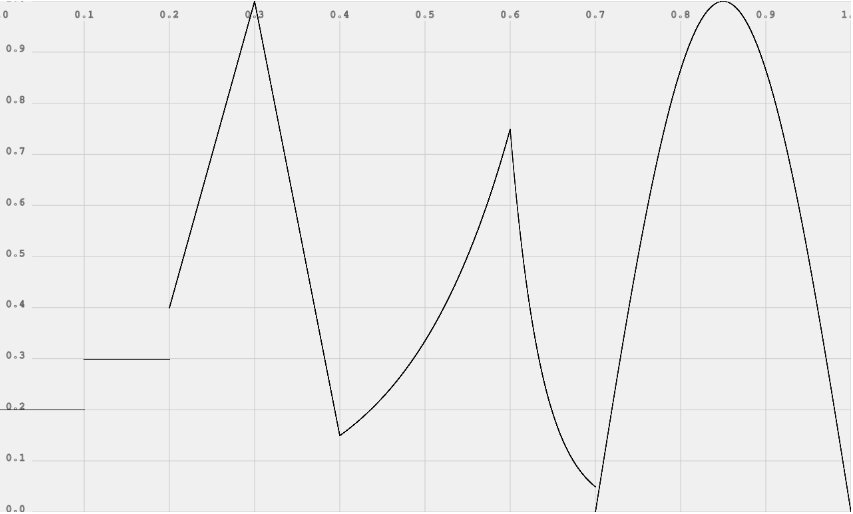
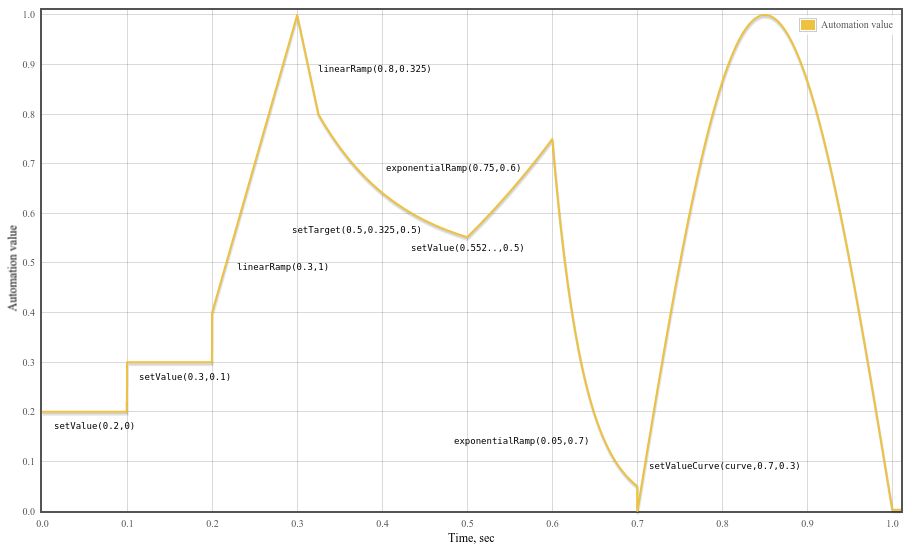
Fix #5: Add setTargetAtTime curve to example
The graph of parameter automation is updated to include an example of
setTargetAtTime with the code update appropriately.  The graph also
includes some simple annotation of each part and also gives an example
of how to have another automation follow a setTargetAtTime.  A
setValueAtTime is required to terminate the setTargetAtTime and give a
starting value for the following exponentialRampToValueAtTime.

diff --git a/index.html b/index.html
@@ -1839,28 +1839,37 @@ The <em>computedValue</em> is the sum of the <em>intrinsic</em> value and the va
   <figcaption>An example of parameter automation.</figcaption>
 </figure>
 <pre class="code example"><code class="es-code highlight">
-var t0 = 0;
-var t1 = 0.1;
-var t2 = 0.2;
-var t3 = 0.3;
-var t4 = 0.4;
-var t5 = 0.6;
-var t6 = 0.7;
-var t7 = 1.0;
-
 var curveLength = 44100;
 var curve = new Float32Array(curveLength);
 for (var i = 0; i &lt; curveLength; ++i)
     curve[i] = Math.sin(Math.PI * i / curveLength);
 
+var t0 = 0;
+var t1 = 0.1;
+var t2 = 0.2;
+var t3 = 0.3;
+var t4 = 0.325;
+var t5 = 0.5;
+var t6 = 0.6;
+var t7 = 0.7;
+var t8 = 1.0;
+var timeConstant = 0.1;
+
 param.setValueAtTime(0.2, t0);
 param.setValueAtTime(0.3, t1);
 param.setValueAtTime(0.4, t2);
 param.linearRampToValueAtTime(1, t3);
-param.linearRampToValueAtTime(0.15, t4);
-param.exponentialRampToValueAtTime(0.75, t5);
-param.exponentialRampToValueAtTime(0.05, t6);
-param.setValueCurveAtTime(curve, t6, t7 - t6);
+param.linearRampToValueAtTime(0.8, t4);
+param.setTargetAtTime(.5, t4, timeConstant);
+// Compute where the setTargetAtTime will be at time t5 so we can make
+// the following exponential start at the right point so there's no
+// jump discontinuity.  From the spec, we have
+//   v(t) = 0.5 + (0.8 - 0.5)*exp(-(t-t4)/timeConstant)
+// Thus v(t5) = 0.5 + (0.8 - 0.5)*exp(-(t5-t4)/timeConstant)
+param.setValueAtTime(0.5 + (0.8 - 0.5)*Math.exp(-(t5 - t4)/timeConstant), t5);
+param.exponentialRampToValueAtTime(0.75, t6);
+param.exponentialRampToValueAtTime(0.05, t7);
+param.setValueCurveAtTime(curve, t7, t8 - t7);
 </code></pre>
 </section>
 </section>
